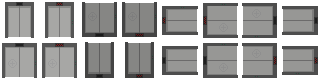
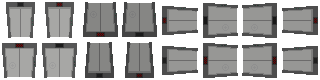
Ya va correcta la animacion de los objetos y cuando estan en el inv
Faltan perspectivas y cosas de esas, la animación del cofre, y mejorar las televisiones.
Los objetos en inventario se ven muy pequeños, mañana los miro

diff --git a/ProyectosSDL/HolaSDL/Craft.cpp b/ProyectosSDL/HolaSDL/Craft.cpp
@@ -79,8 +79,8 @@ void Craft::render(Entity * e, Uint32 time)
 	renderItem(cinta, repareSlots[InsulationTapeSlot]);
 
 	//RENDER DE LOS OBJETOS A CRAFTEAR
-	resource->getTexture("Firstaid")->render(pRenderer, craftSlots[0]);
-	resource->getTexture("Acid")->render(pRenderer, craftSlots[1]);
+	resource->getTexture("Firstaid")->render(pRenderer, craftSlots[0], &clip);
+	resource->getTexture("Acid")->render(pRenderer, craftSlots[1], &clip);
 
 	if (controllerActive && renderMark) {
 		if (selectedSlot < 2 && !craftButtonSelected && !repairButtonSelected) {
@@ -238,7 +238,7 @@ void Craft::renderSlotMark(SDL_Rect DestRect)
 void Craft::renderItem(Entity* e, coord pos)
 {	
 	if (e != nullptr) {
-		SDL_Rect DestRect = { pos.x, pos.y, 50, 50 };
+		SDL_Rect DestRect = { pos.x, pos.y, slotWidth, slotWidth };
 		if (e->getComponent<InsulationTape>())
 		{
 			resource->getTexture("insulationTape")->render(pRenderer, DestRect);
@@ -247,24 +247,24 @@ void Craft::renderItem(Entity* e, coord pos)
 		{
 			Weapon* weaponComp = e->getComponent<Weapon>();
 			if (weaponComp->getType() == ItemType::STICK)
-				resource->getTexture("Stick")->render(pRenderer, DestRect);
+				resource->getTexture("Stick")->render(pRenderer, DestRect, &clip);
 
 			else if (weaponComp->getType() == ItemType::PIPE)
-				resource->getTexture("Crowbar")->render(pRenderer, DestRect);
+				resource->getTexture("Crowbar")->render(pRenderer, DestRect, &clip);
 
 			else if (weaponComp->getType() == ItemType::AXE)
-				resource->getTexture("Axe")->render(pRenderer, DestRect);
+				resource->getTexture("Axe")->render(pRenderer, DestRect, &clip);
 
 			else if (weaponComp->getType() == ItemType::CROWBAR)
-				resource->getTexture("Crowbar")->render(pRenderer, DestRect);
+				resource->getTexture("Crowbar")->render(pRenderer, DestRect, &clip);
 		}
 		else if (e->getComponent<FirstAid>())
 		{
-			resource->getTexture("Firstaid")->render(pRenderer, DestRect);
+			resource->getTexture("Firstaid")->render(pRenderer, DestRect, &clip);
 		}
 		else if (e->getComponent<Key>())
 		{
-			resource->getTexture("Key")->render(pRenderer, DestRect);
+			resource->getTexture("Key")->render(pRenderer, DestRect, &clip);
 		}
 	}
 }

diff --git a/ProyectosSDL/HolaSDL/ItemContainer.cpp b/ProyectosSDL/HolaSDL/ItemContainer.cpp
@@ -36,32 +36,33 @@ bool ItemContainer::empty()
 
 void ItemContainer::renderItem(int i, Entity * e, SDL_Rect DestRect)
 {
+
 	if (inventory[i]->getComponent<InsulationTape>())
 	{
-		resource->getTexture("insulationTape")->render(pRenderer, DestRect);
+		resource->getTexture("insulationTape")->render(pRenderer, DestRect, &clip);
 	}
 	else if (inventory[i]->getComponent<Weapon>())
 	{
 		Weapon* weaponComp = inventory[i]->getComponent<Weapon>();
 		if (weaponComp->getType() == ItemType::STICK)
-			resource->getTexture("Stick")->render(pRenderer, DestRect);
+			resource->getTexture("Stick")->render(pRenderer, DestRect, &clip);
 
 		else if (weaponComp->getType() == ItemType::PIPE)
-			resource->getTexture("Crowbar")->render(pRenderer, DestRect);
+			resource->getTexture("Crowbar")->render(pRenderer, DestRect, &clip);
 
 		else if (weaponComp->getType() == ItemType::AXE)
-			resource->getTexture("Axe")->render(pRenderer, DestRect);
+			resource->getTexture("Axe")->render(pRenderer, DestRect, &clip);
 
 		else if (weaponComp->getType() == ItemType::CROWBAR)
-			resource->getTexture("Crowbar")->render(pRenderer, DestRect);
+			resource->getTexture("Crowbar")->render(pRenderer, DestRect, &clip);
 	}
 	else if (inventory[i]->getComponent<FirstAid>())
 	{
-		resource->getTexture("Firstaid")->render(pRenderer, DestRect);
+		resource->getTexture("Firstaid")->render(pRenderer, DestRect, &clip);
 	}
 	else if (inventory[i]->getComponent<Key>())
 	{
-		resource->getTexture("Key")->render(pRenderer, DestRect);
+		resource->getTexture("Key")->render(pRenderer, DestRect, &clip);
 	}
 }
 

diff --git a/ProyectosSDL/HolaSDL/EntityCreator.h b/ProyectosSDL/HolaSDL/EntityCreator.h
@@ -4,6 +4,7 @@
 #include "Player.h"
 #include "Game.h"
 #include "ImageRenderer.h"
+#include "AnimationRenderObject.h"
 #include "Resources.h"
 #include "SkeletonRenderer.h"
 #include "Door.h"
@@ -56,7 +57,7 @@ public:
 		Entity* e = new Entity();
 		e->addComponent(chooseItemType(type_));
 		//LOS OBJETOS VAN CON ANIMACION PARA OBJETOS ESTATICOS
-		e->addComponent(new ImageRenderer(Game::Instance()->getResourceManager()->getTexture(itemTypetoString(type_))));
+		e->addComponent(new AnimationRenderObject(Game::Instance()->getResourceManager()->getTexture(itemTypetoString(type_)),400,false,false,true));
 		Game::Instance()->stateMachine_.currentState()->getInteractibles()->push_back(e);
 		return e;
 	};
@@ -189,7 +190,7 @@ public:
 	{
 		Entity* e = new Entity();
 		e->addComponent(new SecurityCamera());
-		e->addComponent(new ImageRenderer(Game::Instance()->getResourceManager()->getTexture("Firstaid")));
+		e->addComponent(new AnimationRenderObject(Game::Instance()->getResourceManager()->getTexture("SecurityCameras"), 500, false, true, true));
 		return e;
 	}
 };
@@ -200,7 +201,7 @@ public:
 	Entity * createEntity() const
 	{
 		Entity* e = new Entity();
-		e->addComponent(new ImageRenderer(Game::Instance()->getResourceManager()->getTexture("Axe")));
+		e->addComponent(new AnimationRenderObject(Game::Instance()->getResourceManager()->getTexture("Television"), 50, false, false, true));
 		return e;
 	}
 };

diff --git a/ProyectosSDL/HolaSDL/Inventory.cpp b/ProyectosSDL/HolaSDL/Inventory.cpp
@@ -163,16 +163,16 @@ void Inventory::render(Entity* e, Uint32 time)
 		else  DestRect = { x, y, slotWidth, slotWidth };
 
 		if (weaponComp->getType() == ItemType::STICK)
-			resource->getTexture("Stick")->render(pRenderer, DestRect);
+			resource->getTexture("Stick")->render(pRenderer, DestRect, &clip);
 
 		else if (weaponComp->getType() == ItemType::PIPE)
-			resource->getTexture("Crowbar")->render(pRenderer, DestRect);
+			resource->getTexture("Crowbar")->render(pRenderer, DestRect, &clip);
 
 		else if (weaponComp->getType() == ItemType::AXE)
-			resource->getTexture("Axe")->render(pRenderer, DestRect);
+			resource->getTexture("Axe")->render(pRenderer, DestRect, &clip);
 
 		else if (weaponComp->getType() == ItemType::CROWBAR)
-			resource->getTexture("Crowbar")->render(pRenderer, DestRect);
+			resource->getTexture("Crowbar")->render(pRenderer, DestRect, &clip);
 	}
 
 	for (int i = 0; i < int(inventory.size()); i++)

diff --git a/ProyectosSDL/HolaSDL/Game.cpp b/ProyectosSDL/HolaSDL/Game.cpp
@@ -135,6 +135,7 @@ void Game::addResourcesTexture()
 	resourceManager_->addTexture("Alcohol", "images/Items/alcohol.png");
 	resourceManager_->addTexture("Bandages", "images/Items/bandage.png");
 	resourceManager_->addTexture("Card", "images/Items/keycard.png");
+	resourceManager_->addTexture("Television", "images/Items/television.png");
 
 	//Inventory
 	resourceManager_->addTexture("Inventory", "images/Inventario/FullscreenVersions/Inventario_Full.png");
@@ -162,6 +163,9 @@ void Game::addResourcesTexture()
 	//Lighting
 	resourceManager_->addTexture("ShadowHorizontal", "images/Shadows/ShadowHorizontal.png");
 	resourceManager_->addTexture("ShadowVertical", "images/Shadows/ShadowVertical.png");
+
+	//AnimationTilesheet
+	resourceManager_->addTexture("SecurityCameras", "images/AnimTilesheet/TileshetCameras.png");
 
 }
 

diff --git a/ProyectosSDL/HolaSDL/AnimationRenderObject.h b/ProyectosSDL/HolaSDL/AnimationRenderObject.h
@@ -1,0 +1,42 @@
+#pragma once
+
+#include "Component.h"
+
+#include "Entity.h" 
+#include "Game.h"
+
+
+
+class AnimationRenderObject : public Component
+
+{
+
+public:
+
+	AnimationRenderObject();
+	AnimationRenderObject(Texture* image, int cooldown, bool chest, bool camera, bool on);
+
+	virtual ~AnimationRenderObject();
+
+	virtual void render(Entity* o, Uint32 time);
+	virtual void update(Entity* o, Uint32 time) {};
+	virtual void handleInput(Entity* o, Uint32 time, const SDL_Event& event) {};
+
+private:
+
+	Texture * image_;
+
+	bool chest_ = false;
+	bool camera_ = false;
+	bool on_ = false;
+	bool way_ = true;
+
+	int frame_ = -1;
+	int orientation_ = -1;
+	int cooldown_ = 0;
+
+	int lastTimeFrame_ = 0;
+
+	SDL_Rect dest;
+	SDL_Rect clip;
+};

diff --git a/ProyectosSDL/HolaSDL/Chest.h b/ProyectosSDL/HolaSDL/Chest.h
@@ -19,7 +19,6 @@ public:
 	bool addItem(Entity * item);
 
 	virtual bool checkItem(int item);
-	//void renderItem(int i, Entity* e, SDL_Rect DestRect);
 	virtual Entity* ItemInPosition(int pos);
 	virtual bool fullInventory();
 

diff --git a/ProyectosSDL/HolaSDL/ItemContainer.h b/ProyectosSDL/HolaSDL/ItemContainer.h
@@ -62,5 +62,8 @@ protected:
 	void renderItem(int i, Entity* e, SDL_Rect DestRect);
 
 	void renderSlotMark(SDL_Rect DestRect);
+
+	SDL_Rect clip = RECT(0, 0, 20, 20);
+
 };
 

diff --git a/ProyectosSDL/HolaSDL/SecurityCamera.h b/ProyectosSDL/HolaSDL/SecurityCamera.h
@@ -7,6 +7,7 @@ public:
 	~SecurityCamera();
 
 	void load(int numCamera);
+	int getNumCamera() { return numCamera_; };
 
 private:
 	int numCamera_;

diff --git a/ProyectosSDL/HolaSDL/Craft.h b/ProyectosSDL/HolaSDL/Craft.h
@@ -74,5 +74,7 @@ private:
 	int selectedSlot = 0;
 	int slotWidth = 50;
 	bool renderMark = false;
+
+	SDL_Rect clip = RECT(0, 0, 20, 20);
 };
 

diff --git a/ProyectosSDL/HolaSDL/Inventory.h b/ProyectosSDL/HolaSDL/Inventory.h
@@ -73,7 +73,7 @@ private:
 	bool renderMark = true;
 
 	Entity description_ = Entity(20, 20);
-	
+	SDL_Rect clip = RECT(0, 0, 20, 20);
 };
 
 
